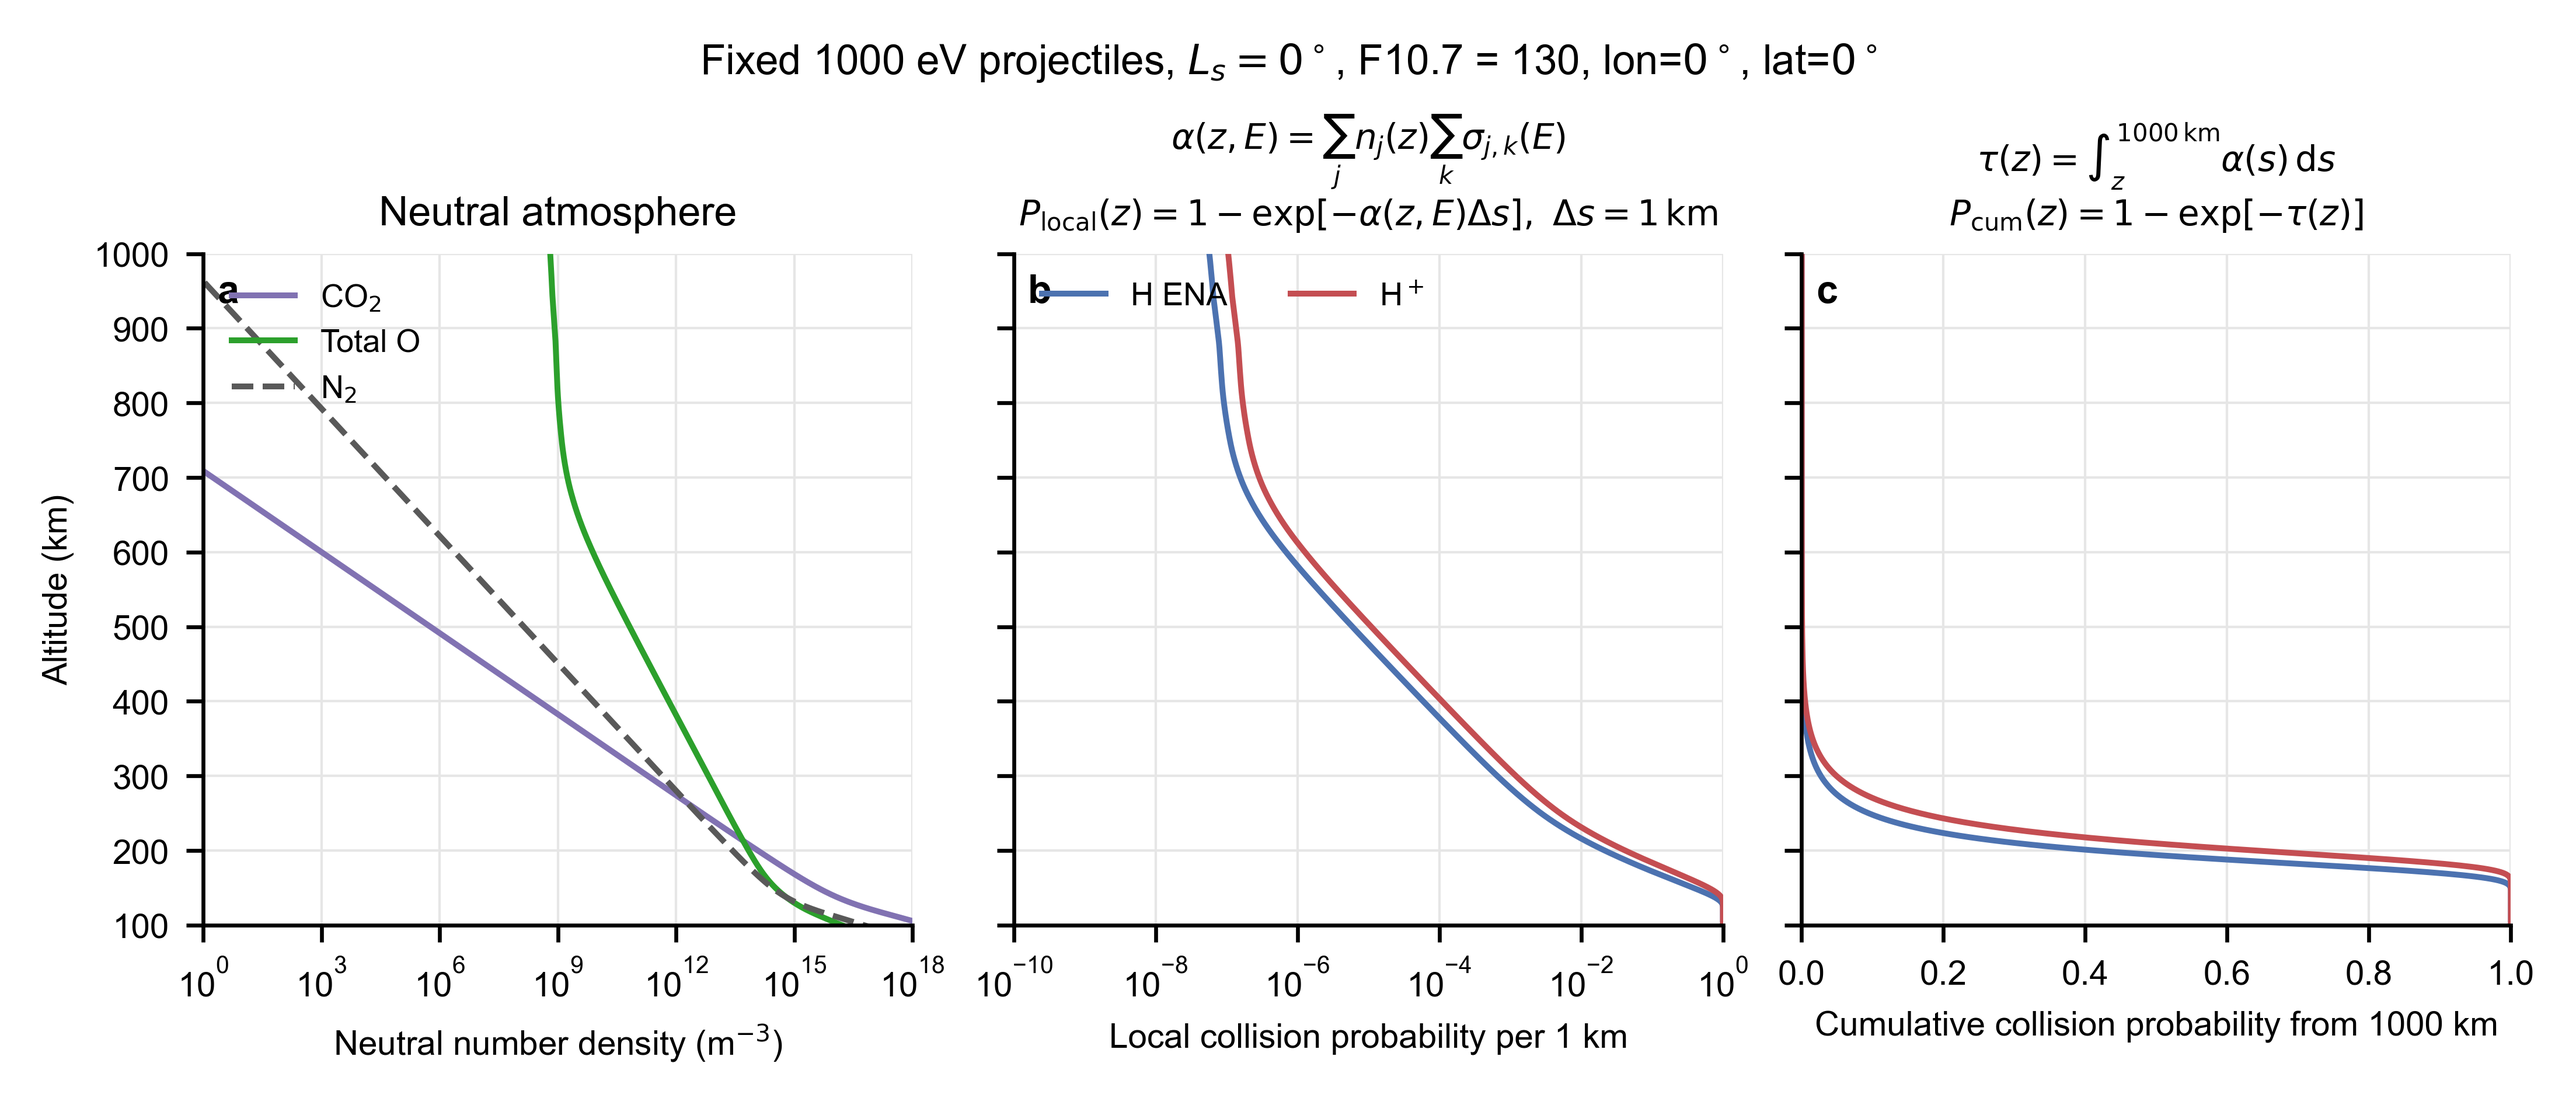
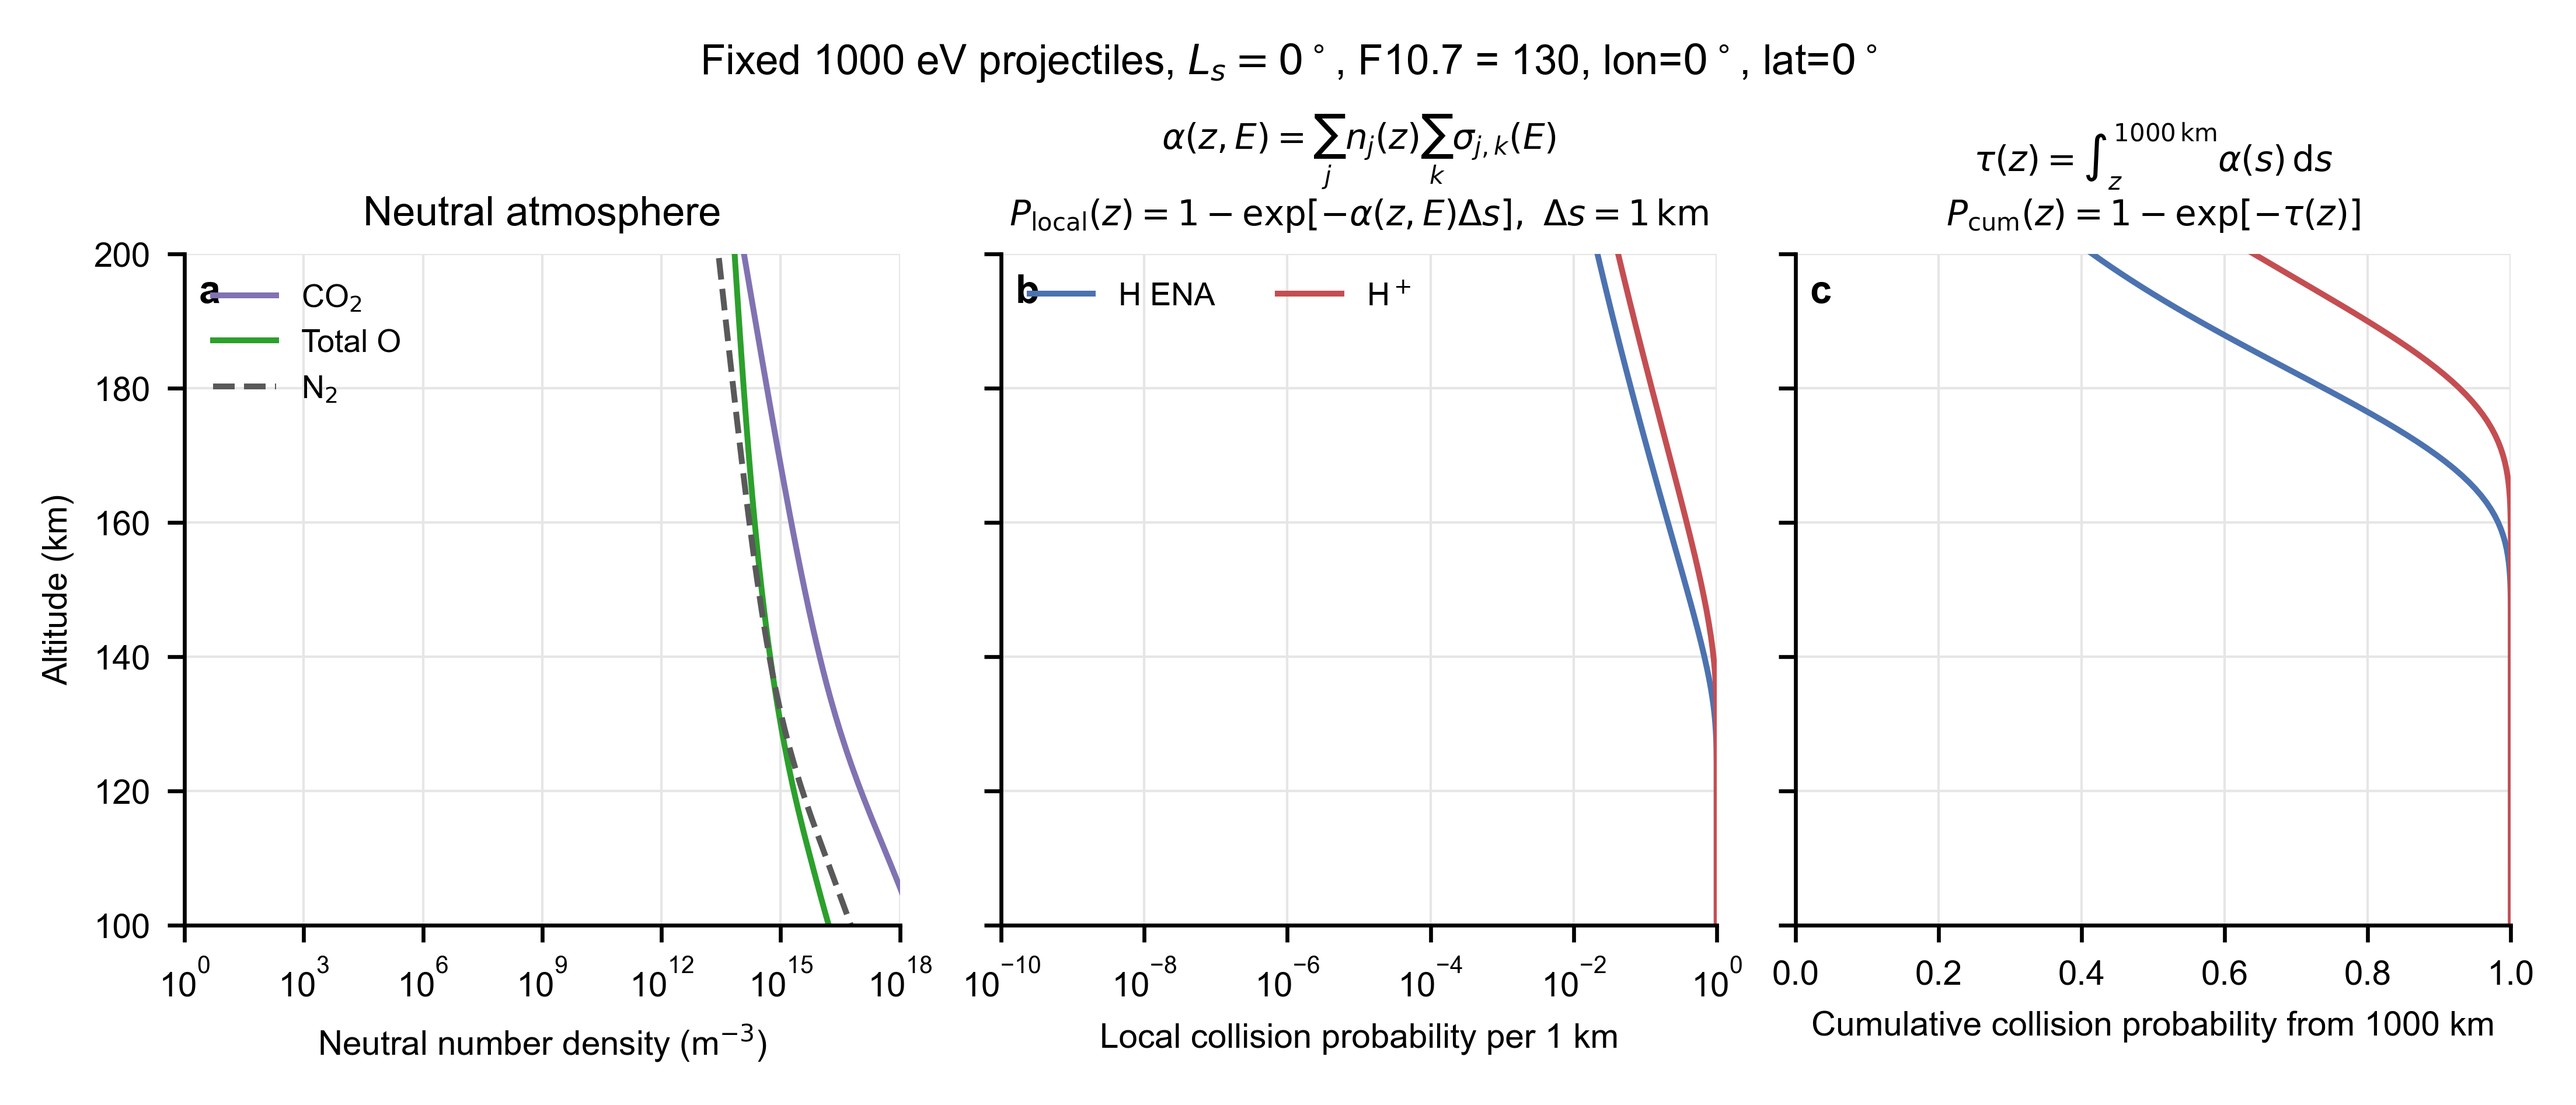
Focus collision probability figure on 100 to 200 km

diff --git a/examples/plot_1000ev_collision_probability.py b/examples/plot_1000ev_collision_probability.py
@@ -243,7 +243,7 @@ def plot_selected_case(
 
     axes[0].set_ylabel("Altitude (km)")
     for panel, axis in enumerate(axes):
-        axis.set_ylim(100, 1000)
+        axis.set_ylim(100, 200)
         axis.grid(True, which="major", color="0.90", lw=0.5)
         axis.text(
             0.02, 0.97, chr(ord("a") + panel),

diff --git a/examples/README.md b/examples/README.md
@@ -124,6 +124,9 @@ The cumulative optical depth and collision probability are
 P_{\mathrm{cum}}=1-\exp[-\tau(z)].
 ```
 
+All three panels display 100 to 200 km. The cumulative optical depth is still
+integrated from each displayed altitude to 1000 km.
+
 The PNG is:
 
 `examples/figures/collision_probability_1000ev_3panel.png`.
